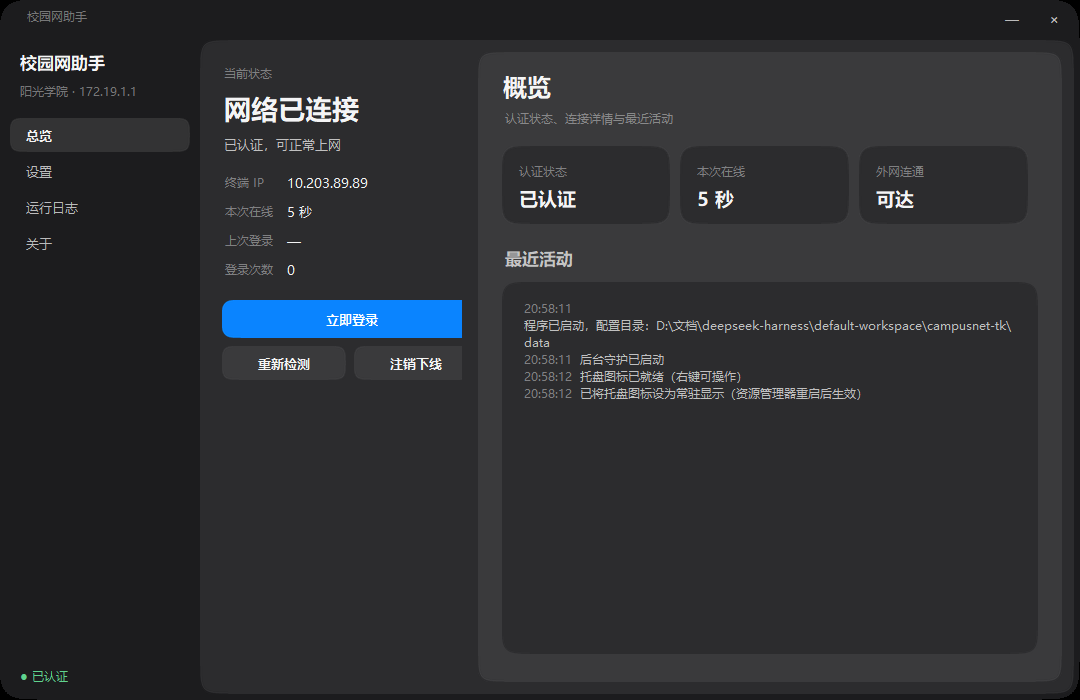
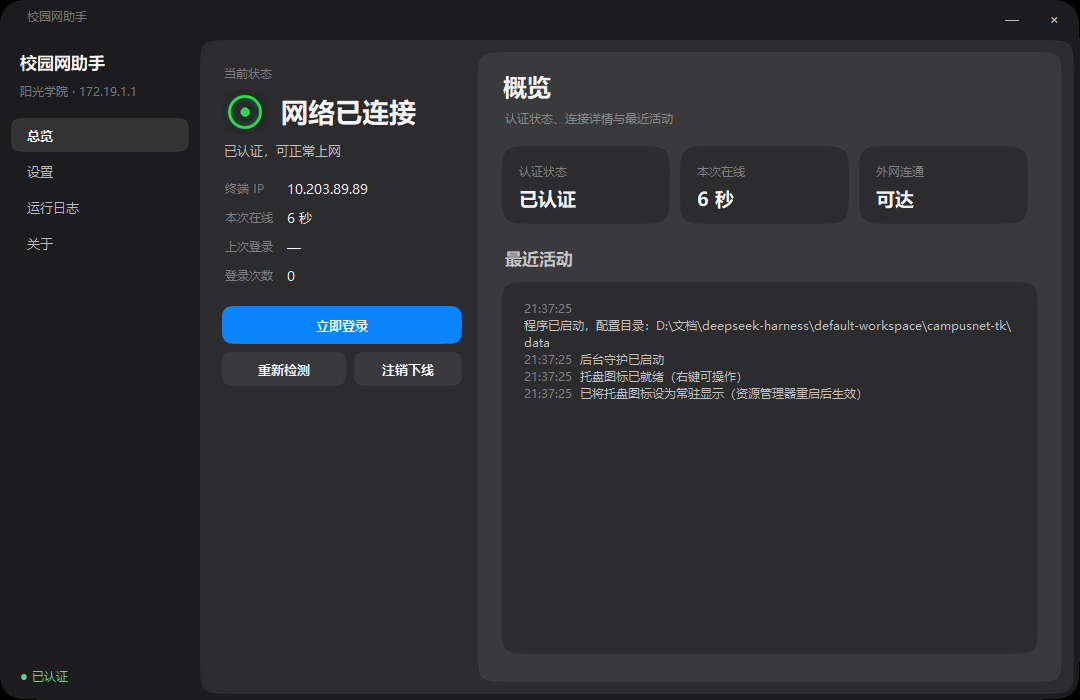
feat: 状态标题前加光环，颜色随网络状态变化
- 绿=已认证、琥珀=待认证、蓝=检测/认证中、红=门户不可达、灰=空闲
- 光环用 4x 超采样 + 高斯模糊外发光，边缘平滑

diff --git a/tk_app.py b/tk_app.py
@@ -64,7 +64,7 @@ F_BTN = (FONT, 10, "bold")
 
 
 try:
-    from PIL import Image, ImageDraw, ImageTk
+    from PIL import Image, ImageDraw, ImageFilter, ImageTk
     HAS_PIL = True
 except Exception:                                       # noqa: BLE001
     HAS_PIL = False
@@ -579,6 +579,64 @@ class Spinner(tk.Canvas):
             self._job = None
 
 
+class StatusRing(tk.Canvas):
+    """状态光环：外圈柔光 + 主环 + 中心点，颜色随网络状态变化。"""
+
+    COLORS = {
+        "online": "#30d158",    # 已认证
+        "offline": "#ffd60a",   # 待认证
+        "error": "#ff453a",     # 门户不可达
+        "checking": "#0a84ff",  # 检测中 / 认证中
+        "idle": "#8e8e93",      # 空闲
+    }
+
+    def __init__(self, master, *, bg=MID, size=44):
+        super().__init__(master, width=size, height=size, bg=bg,
+                         highlightthickness=0, bd=0, takefocus=0)
+        self._size = size
+        self._bg = bg
+        self._key = None
+        self.set_state("idle")
+
+    def set_state(self, key: str):
+        key = key if key in self.COLORS else "idle"
+        if key == self._key:
+            return
+        self._key = key
+        self._render(self.COLORS[key])
+
+    def _render(self, color: str):
+        self.delete("all")
+        size = self._size
+        if HAS_PIL:
+            ss = 4
+            big = size * ss
+            img = Image.new("RGBA", (big, big), (0, 0, 0, 0))
+            d = ImageDraw.Draw(img)
+            pad = 6 * ss
+            box = (pad, pad, big - pad - 1, big - pad - 1)
+            # 外发光
+            d.ellipse(box, outline=color, width=5 * ss)
+            glow = img.filter(ImageFilter.GaussianBlur(4 * ss))
+            # 主环
+            ring = Image.new("RGBA", (big, big), (0, 0, 0, 0))
+            dr = ImageDraw.Draw(ring)
+            dr.ellipse(box, outline=color, width=3 * ss)
+            # 中心点
+            cx = cy = big / 2
+            r = 4.5 * ss
+            dr.ellipse((cx - r, cy - r, cx + r, cy + r), fill=color)
+            img = Image.alpha_composite(glow, ring)
+            img = img.resize((size, size), Image.LANCZOS)
+            photo = ImageTk.PhotoImage(img)
+            self._photo = photo
+            self.create_image(0, 0, image=photo, anchor="nw")
+        else:
+            pad = 6
+            self.create_oval(pad, pad, size - pad, size - pad, outline=color, width=3)
+            self.create_oval(size / 2 - 4, size / 2 - 4, size / 2 + 4, size / 2 + 4, fill=color)
+
+
 class IconButton(tk.Canvas):
     """标题栏小按钮：AA 圆角，字符居中。"""
 
@@ -971,9 +1029,12 @@ class App(tk.Tk):
     def _build_status(self, mid):
         tk.Label(mid, text="当前状态", bg=MID, fg=T3, font=F_SMALL,
                  anchor="w", padx=16).pack(fill="x", pady=(16, 2))
-        self.st_title = tk.Label(mid, text="检测中", bg=MID, fg=T1, font=F_TITLE,
-                                 anchor="w", padx=16)
-        self.st_title.pack(fill="x")
+        head = tk.Frame(mid, bg=MID)
+        head.pack(fill="x", padx=16)
+        self.st_ring = StatusRing(head, bg=MID, size=46)
+        self.st_ring.pack(side="left", pady=(2, 0))
+        self.st_title = tk.Label(head, text="检测中", bg=MID, fg=T1, font=F_TITLE, anchor="w")
+        self.st_title.pack(side="left", padx=(10, 0))
         self.st_msg = tk.Label(mid, text="正在读取认证门户", bg=MID, fg=T2, font=F_BODY,
                                anchor="w", justify="left", wraplength=252, padx=16, pady=4)
         self.st_msg.pack(fill="x")
@@ -1477,6 +1538,17 @@ class App(tk.Tk):
                   "logging_in": "正在认证", "checking": "正在检测",
                   "error": "认证门户不可达", "idle": "准备就绪"}
         self.st_title.configure(text=titles.get(st["phase"], "准备就绪"))
+        if st.get("authenticated"):
+            ring_key = "online"
+        elif st["phase"] in ("checking", "logging_in"):
+            ring_key = "checking"
+        elif st["portal_reachable"]:
+            ring_key = "offline"
+        elif st["phase"] == "error":
+            ring_key = "error"
+        else:
+            ring_key = "idle"
+        self.st_ring.set_state(ring_key)
         self.st_msg.configure(text=st["message"] or "")
         self.st_ip.configure(text=st["ip"] or "—")
         self.st_last.configure(text=self._fmt_time(st["last_login"]))

diff --git a/README.md b/README.md
@@ -42,7 +42,7 @@
 | --- | --- |
 | 灰阶 | 三级灰逐层加深：侧栏（窗口底）`#1c1c1e` → 中栏卡片 `#2c2c2e` → 内容卡片 `#3a3a3c` |
 | 无渐变 | 所有元素纯色填充，无 `gradient` |
-| 无发光 / 无大阴影 | 不使用任何 shadow，窗口靠圆角与色差成形 |
+| 无发光 / 无大阴影 | 不使用任何 shadow；唯一例外是状态光环的外发光（按需求加的） |
 | 无装饰动画 | 只有颜色瞬切（200ms 级观感），无位移/缩放 |
 | 无描边 | **按你的要求去掉了 1px 边框**，按钮、选框全靠底色明暗区分 |
 | 圆角 | 设置里可切「平滑外框」（DWM 系统圆角，边缘抗锯齿）；默认按大圆角裁剪。窗口用 **DWM 圆角**（系统合成器绘制，**边缘抗锯齿**）；中栏/内容卡片超椭圆 22px/20px 逐层内嵌；卡片与日志区 22px、按钮与输入框 18px、导航 16px、标题栏按钮 14px，全部 4× 超采样抗锯齿 |
